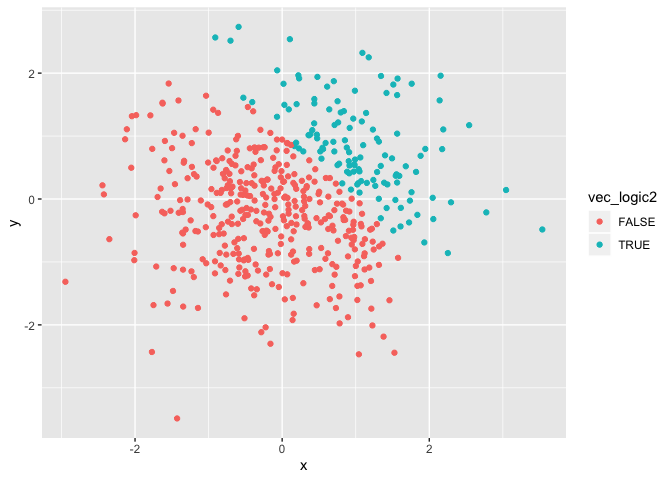
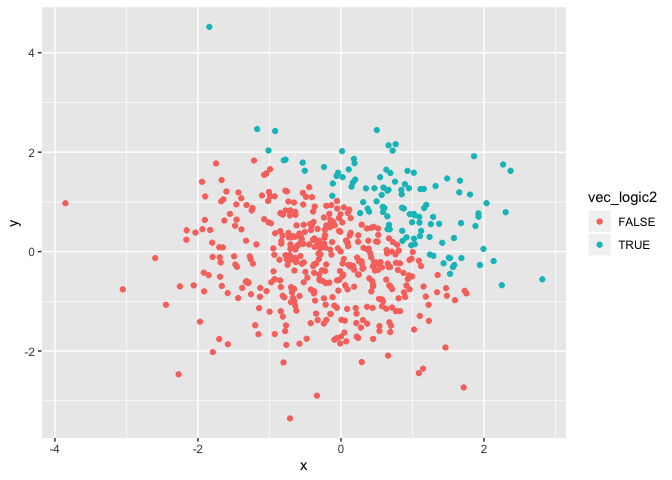
Correct some errors in problem 1.

diff --git a/p8105_hw1_yw3438.md b/p8105_hw1_yw3438.md
@@ -1,6 +1,7 @@
 p8105\_hw1\_yw3438
 ================
 Yuning Wang
+15/09/2019
 
 # Problem 1
 
@@ -28,10 +29,10 @@ lapply(problem1_df, mean)
     ## returning NA
 
     ## $ran_sample
-    ## [1] -0.2855568
+    ## [1] 0.08622322
     ## 
     ## $gr_th_0_logical
-    ## [1] 0.125
+    ## [1] 0.5
     ## 
     ## $vec_character
     ## [1] NA
@@ -52,23 +53,37 @@ Here’s the second code chunk for problem
 ``` r
 ##convert the logical vector to numeric, and multiply the random sample by the result##
 gr_th_0_num = as.numeric(problem1_df$gr_th_0_logical)
-prod(gr_th_0_num)
+(gr_th_0_num)*(problem1_df$ran_sample)
 ```
 
-    ## [1] 0
+    ## [1] 0.8977427 0.4021629 0.4198242 1.5136212 0.0000000 0.0000000 0.0000000
+    ## [8] 0.0000000
 
 ``` r
 ##convert the logical vector to a factor, and multiply the random sample by the result##
 gr_th_0_fac = as.factor(problem1_df$gr_th_0_logical)
-#gr_th_0_fac_pro = prod(gr_th_0_fac)
-#the random sample cannot be mutiplied as it's factor. I have to put it into a comment because the whole Rmd will break down if it's in the code.
+gr_th_0_fac_pro = (gr_th_0_fac)*(problem1_df$ran_sample)
+```
+
+    ## Warning in Ops.factor((gr_th_0_fac), (problem1_df$ran_sample)): '*' not
+    ## meaningful for factors
+
+``` r
+gr_th_0_fac_pro
+```
+
+    ## [1] NA NA NA NA NA NA NA NA
+
+``` r
+#the random sample cannot be mutiplied as it's factor. 
 
 ##convert the logical vector to a factor and then convert the result to numeric, and multiply the random sample by the result##
 gr_th_0_fac_num = as.numeric(as.factor(problem1_df$gr_th_0_logical))
-prod(gr_th_0_fac_num)
+(gr_th_0_fac_num)*(problem1_df$ran_sample)
 ```
 
-    ## [1] 2
+    ## [1]  1.79548543  0.80432572  0.83964848  3.02724242 -0.73012433 -1.27925354
+    ## [7] -0.05206047 -0.48212691
 
 # Problem 2
 
@@ -86,11 +101,11 @@ The size of this dataset can be described by its columns and rows. The
 number of the columns is 5 and the number of the rows of the dataset is
 500.
 
-The mean of x is 0.073077, the median of x is 0.0639718 and the standard
-deviation of x is 1.0028832.
+The mean of x is -0.0673782, the median of x is -0.0562743 and the
+standard deviation of x is 0.9834672.
 
 The proportion of cases for which x + y \> 1 is
-0.248
+0.216
 
 ## The Scatterplot of x and y
 
